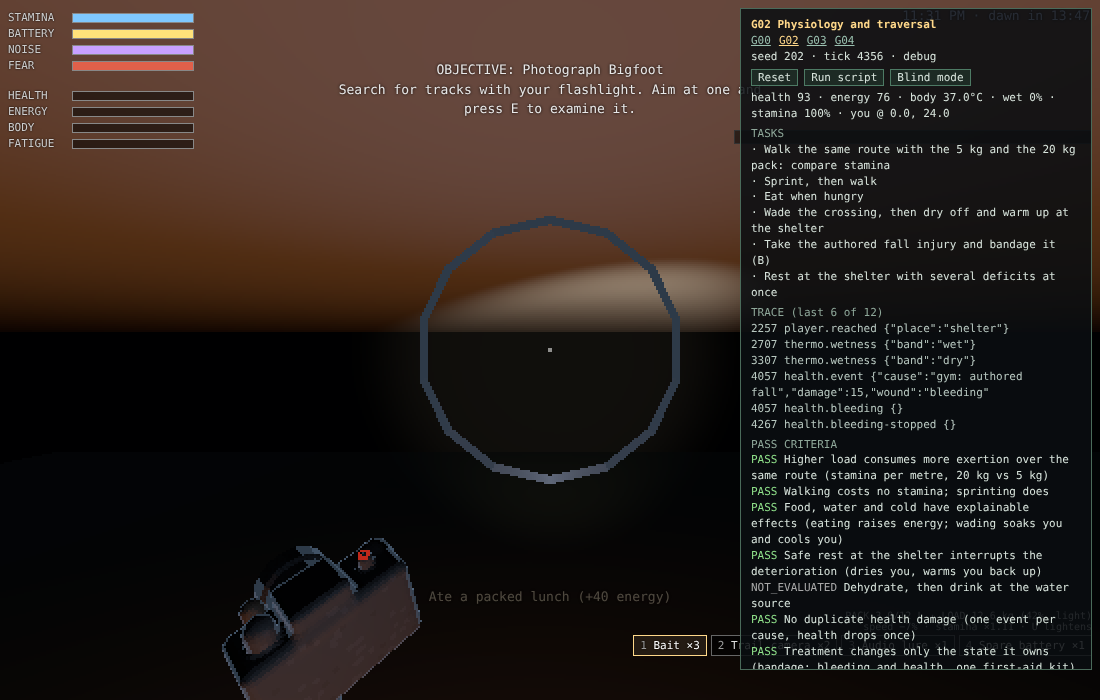
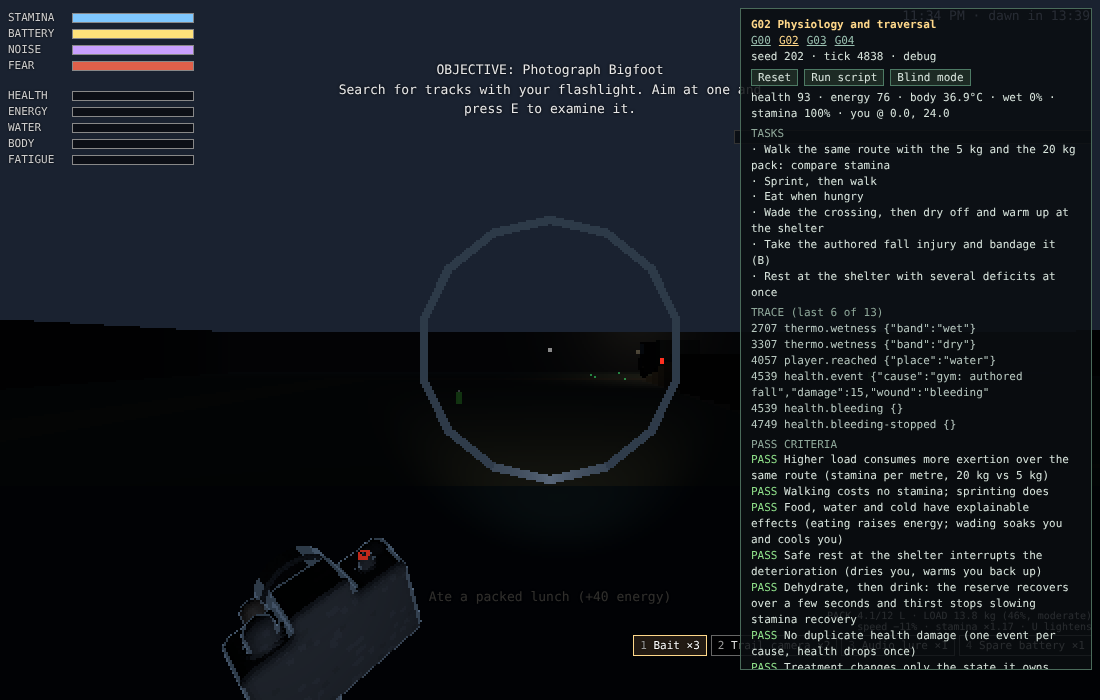
#108 G02 now checks drinking with the S07 hydration system; merge main
Claude-Session: https://claude.ai/code/session_014LNbET5mb9p8VAZ6PXMuyt

diff --git a/src/gym/gymRuns.js b/src/gym/gymRuns.js
@@ -72,7 +72,18 @@ export function runG02(g, h) {
     { ate: ate?.name ?? null, energy: [40, +energyAfter.toFixed(1)], wetIn: +wetIn.toFixed(1), core: [core0, +coreIn.toFixed(2)], equilibriumInWater: +eqIn?.toFixed(2) });
   T.add('rest', 'Safe rest at the shelter interrupts the deterioration (dries you, warms you back up)', wetOut < wetIn && coreOut > coreIn,
     { wet: [+wetIn.toFixed(1), +wetOut.toFixed(1)], core: [+coreIn.toFixed(2), +coreOut.toFixed(2)] });
-  T.add('hydration', 'Dehydrate, then drink at the water source', null, { reason: 'no hydration system (S07) in this build yet; the water source is in place for it' });
+  // Hydration (S07, #103): dehydrated at the water source, drink from the packed bottles.
+  const hy = s.hydration;
+  if (hy) {
+    T.place(L.water.x + 1.5, L.water.z, 0);
+    hy.value = 20; T.steps(2);
+    const deficit = hy.thirstDeficit, band0 = hy.band, healthHy = s.health.value;
+    const sips = [hy.drink(), hy.drink(), hy.drink()];
+    T.steps(8 * 60);
+    T.add('hydration', 'Dehydrate, then drink: the reserve recovers over a few seconds and thirst stops slowing stamina recovery',
+      sips.every((r) => r.ok) && hy.value > 20 && hy.thirstDeficit < deficit && s.health.value === healthHy,
+      { hydration: [20, +hy.value.toFixed(1)], band: [band0, hy.band], thirstDeficit: [+deficit.toFixed(2), +hy.thirstDeficit.toFixed(2)], drinks: sips.map((r) => r.src) });
+  } else T.add('hydration', 'Dehydrate, then drink at the water source', null, { reason: 'no hydration system (S07) in this build' });
 
   // Injury: one authored fall, submitted twice in the same moment: it must count once.
   s.health.value = 100;

diff --git a/src/gym/gymKit.js b/src/gym/gymKit.js
@@ -52,6 +52,7 @@ export class GymHarness {
     const g = this.g, s = g.survival;
     if (g.huntFailure) g.huntFailure.enabled = this.id === 'G04';     // only G04 can end in a "caught"
     s.nutrition.energy = 80; s.thermo.core = 37; s.thermo.wetness = 0; s.fatigue && (s.fatigue.value = 20);
+    if (s.hydration) s.hydration.value = 80;
     g.player.stamina = 1;
     if (this.id === 'G03') { g.fieldKit.carried.tent = 1; g.fieldKit.carried.fireKit = 2; }
     if (this.id === 'G04') {
